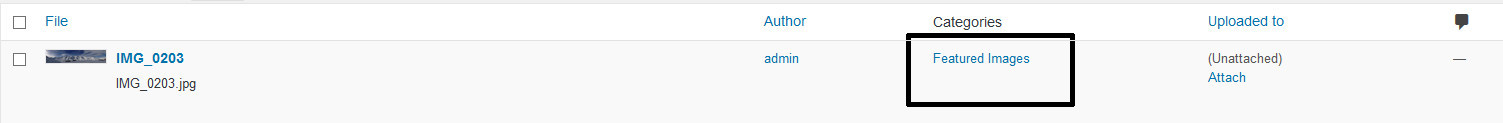
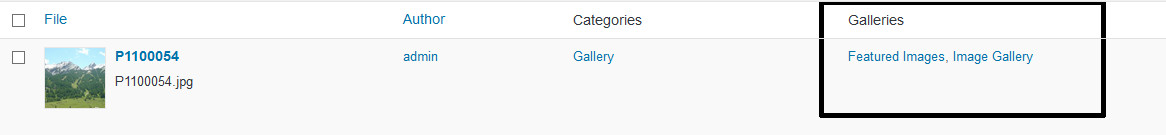
added new taxonomy gallery for image categorization
git-svn-id: https://plugins.svn.wordpress.org/sponsors-slideshow-widget/trunk@1253612 b8457f37-d9ea-0310-8a92-e5e31aec5664

diff --git a/sponsors-slideshow-widget.php b/sponsors-slideshow-widget.php
@@ -3,7 +3,7 @@
 Plugin Name: Sponsors Slideshow Widget
 Plugin URI: http://www.wordpress.org/extend/plugins/sponsors-slideshow-widget
 Description: Display certain link category as slideshow in sidebar
-Version: 2.2.2
+Version: 2.2.3
 Author: Kolja Schleich
 
 Copyright 2007-2015  Kolja Schleich  (email : kolja [dot] schleich [at] googlemail.com)
@@ -30,7 +30,7 @@ class SponsorsSlideshowWidget extends WP_Widget
 	 *
 	 * @var string
 	 */
-	var $version = '2.2.2';
+	var $version = '2.2.3';
 	
 	/**
 	 * url to the plugin
@@ -78,7 +78,10 @@ class SponsorsSlideshowWidget extends WP_Widget
 		add_action( 'admin_enqueue_scripts', array(&$this, 'addStyles') );
 		
 		// enable categories for attachments/media
-		add_action( 'init' , array(&$this, 'addCategoriesToAttachments') );
+		//add_action( 'init' , array(&$this, 'addCategoriesToAttachments') );
+		
+		// add new gallery taxonomy
+		add_action( 'init', array(&$this, 'addTaxonomy') );
 		
 		// filter posts query
 		add_action( 'pre_get_posts', array(&$this, 'exclude_posts') );
@@ -104,6 +107,39 @@ class SponsorsSlideshowWidget extends WP_Widget
 	function SponsorsSlideshowWidget()
 	{
 		$this->__construct();
+	}
+	
+	
+	/**
+	 * add new gallery taxonomy for grouping images
+	 *
+	 * @param none
+	 */
+	function addTaxonomy()
+	{
+		$labels = array(
+			'name'              => __('Galleries', 'sponsors-slideshow'),
+			'singular_name'     => __('Gallery', 'sponsors-slideshow'),
+			'search_items'      => __('Search Galleries', 'sponsors-slideshow'),
+			'all_items'         => __('All Galleries', 'sponsors-slideshow'),
+			'parent_item'       => __('Parent Gallery', 'sponsors-slideshow'),
+			'parent_item_colon' => __('Parent Gallery:', 'sponsors-slideshow'),
+			'edit_item'         => __('Edit Gallery', 'sponsors-slideshow'),
+			'update_item'       => __('Update Gallery', 'sponsors-slideshow'),
+			'add_new_item'      => __('Add New Gallery', 'sponsors-slideshow'),
+			'new_item_name'     => __('New Gallery Name', 'sponsors-slideshow'),
+			'menu_name'         => __('Galleries', 'sponsors-slideshow')
+		);
+
+		$args = array(
+			'labels' => $labels,
+			'hierarchical' => true,
+			'query_var' => 'true',
+			'rewrite' => 'true',
+			'show_admin_column' => 'true',
+		);
+
+		register_taxonomy( 'gallery', 'attachment', $args );
 	}
 	
 	
@@ -145,7 +181,19 @@ class SponsorsSlideshowWidget extends WP_Widget
 			}
 			$results = $query->posts;
 		} elseif ( $instance['source'] == 'images' ) {
-			$query = new WP_Query(array('posts_per_page' => -1, 'post_type' => 'attachment', 'post_status' => 'inherit', 'cat' => $term_id));
+			//$query = new WP_Query(array('posts_per_page' => -1, 'post_type' => 'attachment', 'post_status' => 'inherit', 'cat' => $term_id));
+			$query = new WP_Query(array(
+				'posts_per_page' => -1,
+				'post_type' => 'attachment',
+				'post_status' => 'inherit',
+				'tax_query' => array(
+					array(
+						'taxonomy' => 'gallery',
+						'field' => 'term_id',
+						'terms' => $term_id
+					)
+				)
+			));
 			$results = $query->posts;
 		} else {
 			$results = false;
@@ -426,7 +474,7 @@ class SponsorsSlideshowWidget extends WP_Widget
 	function categories( $selected )
 	{
 		$out = '<select size="1" name="'.$this->get_field_name("category").'" id="'.$this->get_field_id("category").'">';
-		$terms = array("Links" => "link_category", "Posts or Images" => "category");
+		$terms = array("Links" => "link_category", "Posts" => "category", "Images" => "gallery");
 		
 		foreach ($terms AS $label => $term) {
 			$categories = get_terms($term, 'orderby=name&hide_empty=0');

diff --git a/tinymce/window.php b/tinymce/window.php
@@ -19,7 +19,7 @@ require_once(ABSPATH.'/wp-admin/admin.php');
 load_plugin_textdomain( 'sponsors-slideshow', false, ABSPATH.'/wp-content/plugins/sponsors-slideshow-widget/languages' );
 
 $sources = array( 'links' => __('Links', 'sponsors-slideshow'), 'images' => __('Images', 'sponsors-slideshow'), 'posts' => __('Posts', 'sponsors-slideshow') );
-$terms = array("Links" => "link_category", "Posts or Images" => "category");
+$terms = array("Links" => "link_category", "Posts" => "category", "Images" => "gallery");
 $effects = array( __('Blind X','sponsors-slideshow') => 'blindX', __('Blind Y','sponsors-slideshow') => 'blindY', __('Blind Z','sponsors-slideshow') => 'blindZ', __('Cover','sponsors-slideshow') => 'cover', __('Curtain X','sponsors-slideshow') => 'curtainX', __('Curtain Y','sponsors-slideshow') => 'curtain>', __('Fade','sponsors-slideshow') => 'fade', __('Fade Zoom','sponsors-slideshow') => 'fadeZoom', __('Scroll Up','sponsors-slideshow') => 'scrollUp', __('Scroll Left','sponsors-slideshow') => 'scrollLeft', __('Scroll Right','sponsors-slideshow') => 'scrollRight', __('Scroll Down','sponsors-slideshow') => 'scrollDown', __('Scroll Horizontal', 'sponsors-slideshow') => 'scrollHorz', __('Scroll Vertical', 'sponsors-slideshow') => 'scrotllVert', __('Shuffle','sponsors-slideshow') => 'shuffle', __('Slide X','sponsors-slideshow') => 'slideX', __('Slide Y','sponsors-slideshow') => 'slideY', __('Toss','sponsors-slideshow') => 'toss', __('Turn Up','sponsors-slideshow') => 'turnUp', __('Turn Down','sponsors-slideshow') => 'turnDown', __('Turn Left','sponsors-slideshow') => 'turnLeft', __('Turn Right','sponsors-slideshow') => 'turnRight', __('Uncover','sponsors-slideshow') => 'uncover', __('Wipe','sponsors-slideshow') => 'wipe', __( 'Zoom','sponsors-slideshow') => 'zoom', __('Grow X','sponsors-slideshow') => 'growX', __('Grow Y','sponsors-slideshow') => 'growY', __('Random','sponsors-slideshow') => 'all');
 $order = array(__('Ordered','sponsors-slideshow') => '0', __('Random','sponsors-slideshow') => '1');
 
